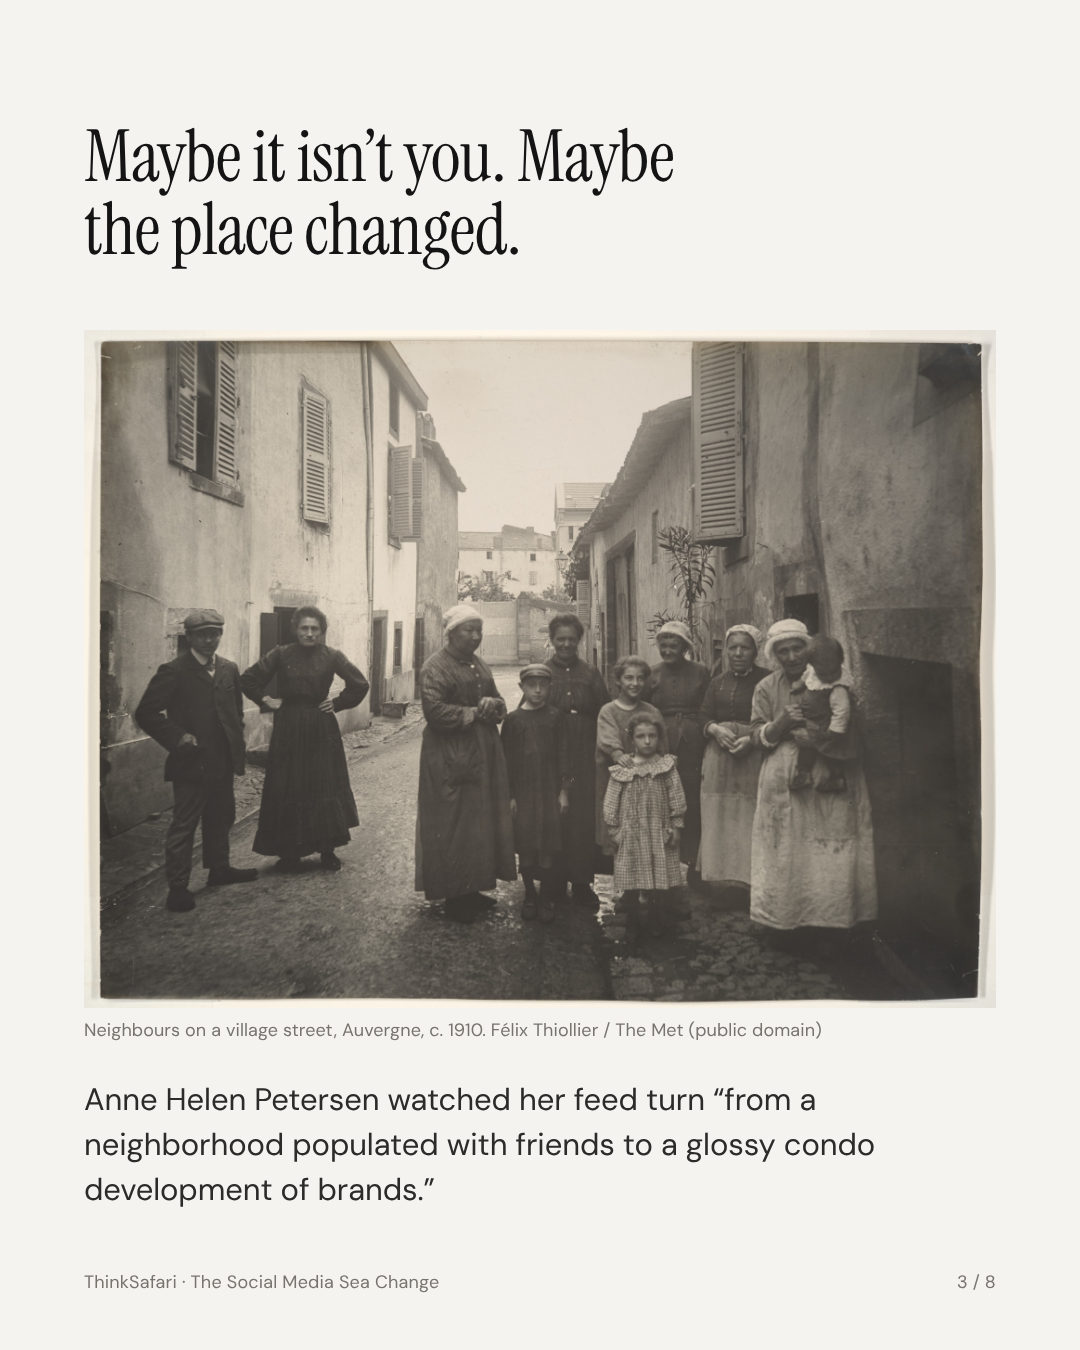
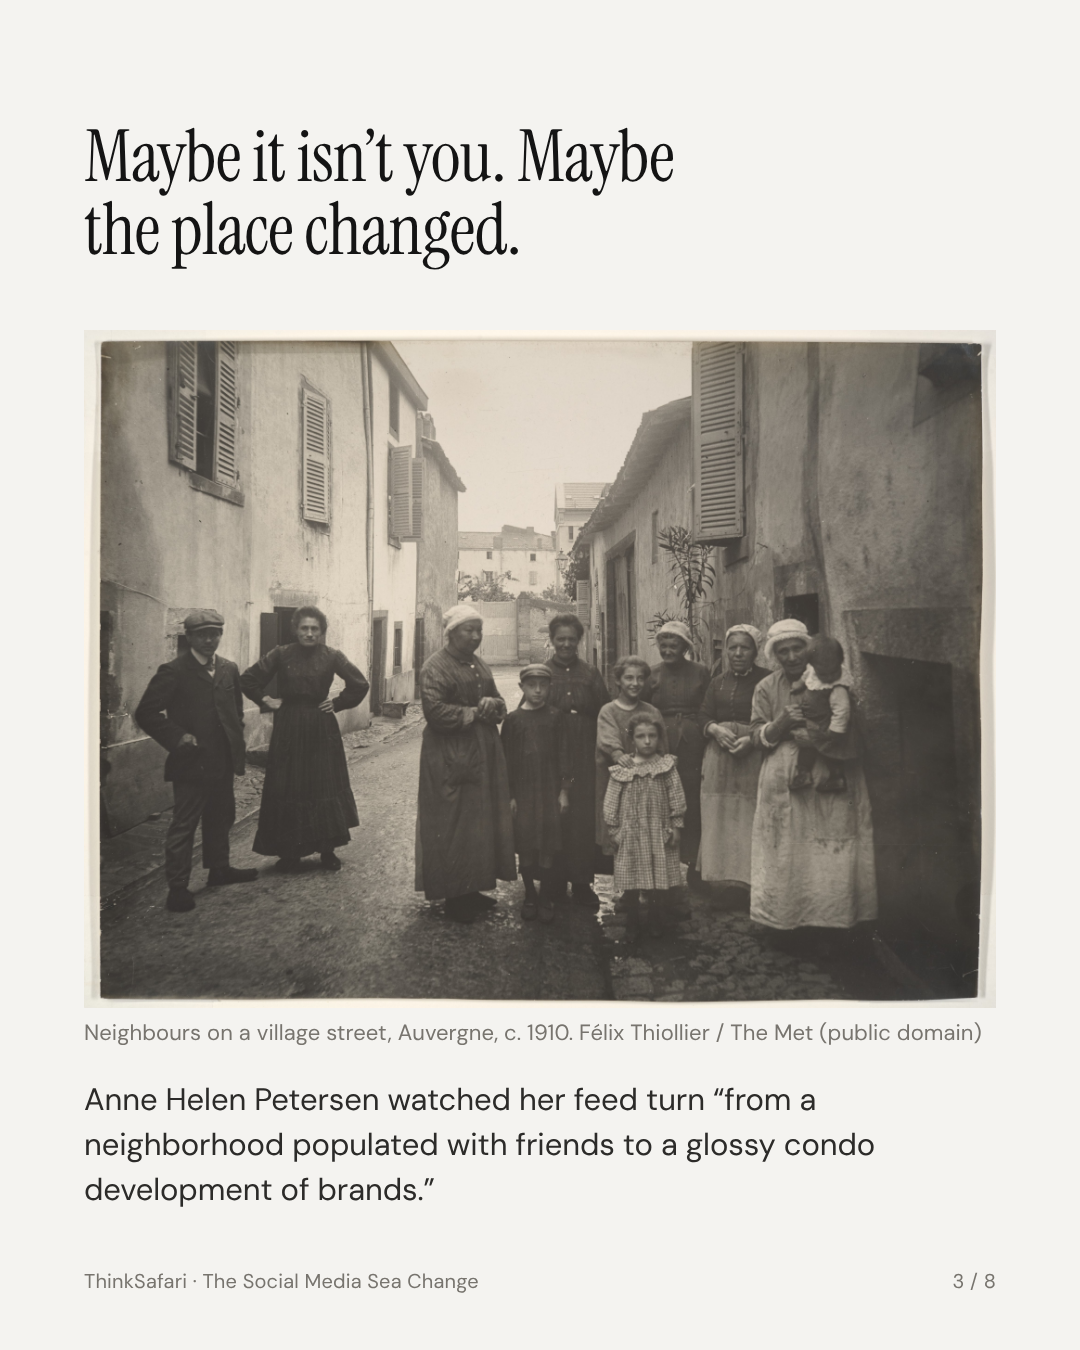
ThinkSafari: save editorial design master prompt; No. 01 larger captions for mobile
Claude-Session: https://claude.ai/code/session_015UUUjM7rj3xv3njX47SFMT

Changed region(s): [[0.0917, 0.7467, 0.9167, 0.7778], [0.0917, 0.9333, 0.4278, 0.9644], [0.8861, 0.9333, 0.9167, 0.9644]]

diff --git a/carousels/thinksafari-01-social-media-sea-change/slides.js b/carousels/thinksafari-01-social-media-sea-change/slides.js
@@ -13,8 +13,8 @@ const css = `
 .h{font:400 80px/1.02 IS;letter-spacing:-.012em;text-wrap:balance}
 .q{font:italic 400 60px/1.1 IS;text-wrap:balance}
 .b{font:400 33px/1.45 DS;letter-spacing:-.003em;text-wrap:pretty}
-.cap{font:400 18px/1.35 DS;letter-spacing:.005em}
-.foot{left:84px;right:84px;bottom:56px;display:flex;justify-content:space-between;font:400 18px DS;letter-spacing:.01em}
+.cap{font:400 22px/1.35 DS;letter-spacing:.003em}
+.foot{left:84px;right:84px;bottom:56px;display:flex;justify-content:space-between;font:400 20px DS;letter-spacing:.01em}
 img{display:block;position:absolute}
 `;
 const foot = (i, col) => `<div class="a foot" style="color:${col}"><span>ThinkSafari · The Social Media Sea Change</span><span>${i} / 8</span></div>`;
@@ -63,10 +63,10 @@ const S = [
    <div class="b" style="margin-top:26px;color:#C9C6C0">The book on the train. Small talk in a slow pharmacy queue. The errand you keep putting off. Life, quietly happening off-screen.</div></div>
   ${foot(7, C.dkGrey)}`],
  // 8 — the ending
- [C.white, `<div class="a m b" style="top:150px;color:${C.grey};max-width:830px">When she left Instagram, her first worry was embarrassingly simple: how would people know she’d gone skiing? That she had friends?</div>
-  <div class="a m" style="top:380px"><div class="q" style="font-size:96px;line-height:1.02;color:${C.ink}">“‘People’ may not know, but I do.”</div></div>
-  <img src="file://${P}/08_skier.jpg" style="left:0;top:600px;width:1080px;height:630px;object-fit:cover;object-position:50% 55%">
-    <div class="a cap" style="right:84px;top:1240px;color:${C.grey}">Grand Teton National Park. Photo: NPS (public domain)</div>
+ [C.white, `<div class="a m b" style="top:130px;color:${C.grey};max-width:830px">When she left Instagram, her first worry was embarrassingly simple: how would people know she’d gone skiing? That she had friends?</div>
+  <div class="a m" style="top:350px"><div class="q" style="font-size:96px;line-height:1.02;color:${C.ink}">“‘People’ may not know, but I do.”</div></div>
+  <img src="file://${P}/08_skier.jpg" style="left:0;top:580px;width:1080px;height:606px;object-fit:cover;object-position:50% 55%">
+    <div class="a cap" style="right:84px;top:1198px;color:${C.grey}">Grand Teton National Park. Photo: NPS (public domain)</div>
   ${foot(8, C.grey)}`],
 ];
 (async () => {

diff --git a/.claude/skills/editorial-studio/SKILL.md b/.claude/skills/editorial-studio/SKILL.md
@@ -106,3 +106,20 @@ ThinkSafari is an art-directed independent digital publication, not an Instagram
 **Visual benchmark (Suraj's reference board, Nov 2026):** Cereal magazine (Vol 14, 19, 20), Kinfolk (Issue 25 'Food', T.D.C. still-life series), The New Yorker photo spreads (Mary Ellen Mark, Joel Meyerowitz *Aftermath*), Magnum-style black-and-white street documentary, minimalist architectural photography in soft natural light (warm pastel walls, a lone figure, open sky), still lifes of ceramics in raking light, generous white pages with small refined serif type, photos placed like objects on the page.
 
 **Final principle:** a publication someone discovered, not a content account someone generated. The quality of a magazine, the curiosity of a good Substack writer, the authenticity of a personal notebook. Not every post needs to be spectacular; every post should feel deliberately made.
+
+---
+
+## Editorial carousel design master prompt (Suraj, Nov 2026)
+Make each carousel feel like a beautifully designed photo essay from an independent intellectual magazine, not an Instagram template. **Primary design reference: ThinkSafari No. 01 "The Social Media Sea Change"** (`carousels/thinksafari-01-social-media-sea-change/01-preview.png`): ivory and near-black pages, serif headlines and quotes, understated sans for body, archival + documentary photos, an inset photo with a caption, a big-number slide, a type-only dark pause, a white final field.
+- **Palette:** warm off-white/ivory, deep charcoal/near-black, natural photographic colour. No gradients, effects or excess accents (at most one restrained accent word, Salgado-style red, when it earns its place).
+- **Type:** editorial serif for headlines and quotes, clean sans for support; headlines read like magazine headlines, not marketing.
+- **Photography (most important):** real archival, documentary, street and candid photos of real places, with a narrative purpose for every one. Sources: Wikimedia Commons, Library of Congress, Unsplash, Pexels, Internet Archive, reputable editorial archives. Verify source, context and rights. Never generic AI people, obvious stock, fake history, illustrations or repetition.
+- **Slides:** 8–10 at 1080×1350, varied: full-width documentary photo, text-only, dark quote, archival photo with context caption, large statistic, asymmetric magazine layout, image+text, unexpected pauses. Consistent type, colour and margins.
+- **Story:** a short Substack essay: intrigue → central question → context (story/fact/history) → evidence and examples → unexpected insight or contradiction → reconsider an assumption → central takeaway → memorable ending or question. Intelligent, conversational, specific, emotional without sentimentality, no clichés or engagement bait. Never invent stats, quotes, events or sources.
+- **Mobile readability:** headlines readable instantly; body comfortable on a phone; **no tiny captions** (captions ≥ 22px, footer ≥ 20px, body ≥ 32px at 1080 wide); no dense paragraphs; generous margins; one idea per slide; don't crowd photos with text. If it isn't comfortable on a phone, redesign it.
+- **Brand:** ThinkSafari explores AI and technology, psychology, philosophy and science, history, society and culture, questions people rarely ask. A recognisable editorial language, not a rigid template.
+- **Final check:** every slide individually; spelling, grammar, facts; image relevance and authenticity; mobile readability; no overlaps or clipping; consistent margins and type; natural flow; a final slide that leaves the reader thinking.
+- **Guiding principle:** real stories, real photographs, interesting ideas, beautiful editorial design.
+
+**Reference spreads (Nov 2026):** The New Yorker "Looking Back" (Diane Arbus portrait on kraft paper stock); Aperture "Grimaces of the Weary Village" (Rimaldas Vikšraitis; heavy serif title + single B&W photo); LIFE "Freedom's Fearful Foe: Poverty" (Gordon Parks; full-bleed dark photo, serif headline set into the shadow); OjodePez documentary spread (two stacked B&W photos, quiet text page); Nataal (black page, two colour photos, sans caps name); LIFE "Country Doctor" (W. Eugene Smith; dense photo grid + bold caps captions); NYT Magazine "Big Lift" (Jack Davison; giant condensed black title filling half the spread); Raghu Rai-era magazine spread ("Why can't the world understand?", photo cluster + portrait); Nick Brandt spread (one panoramic photo, small caps headline); New Yorker "A Hole in the City" (Joel Meyerowitz; full-page photo + classic text column); The Observer "Glimpses of a forgotten war" (serif headline, photo mosaic); LIFE "The Fontenelle Family" (Gordon Parks; 4-photo layout with italic captions); 6Mois Salgado "Archives" (stacked sans title, one red word, single B&W photo).
+Lessons: let one photo dominate; set headlines into the photo's natural negative space; use multi-photo sequences for "story" beats; huge type as an image in its own right; captions as real information, not decoration.
